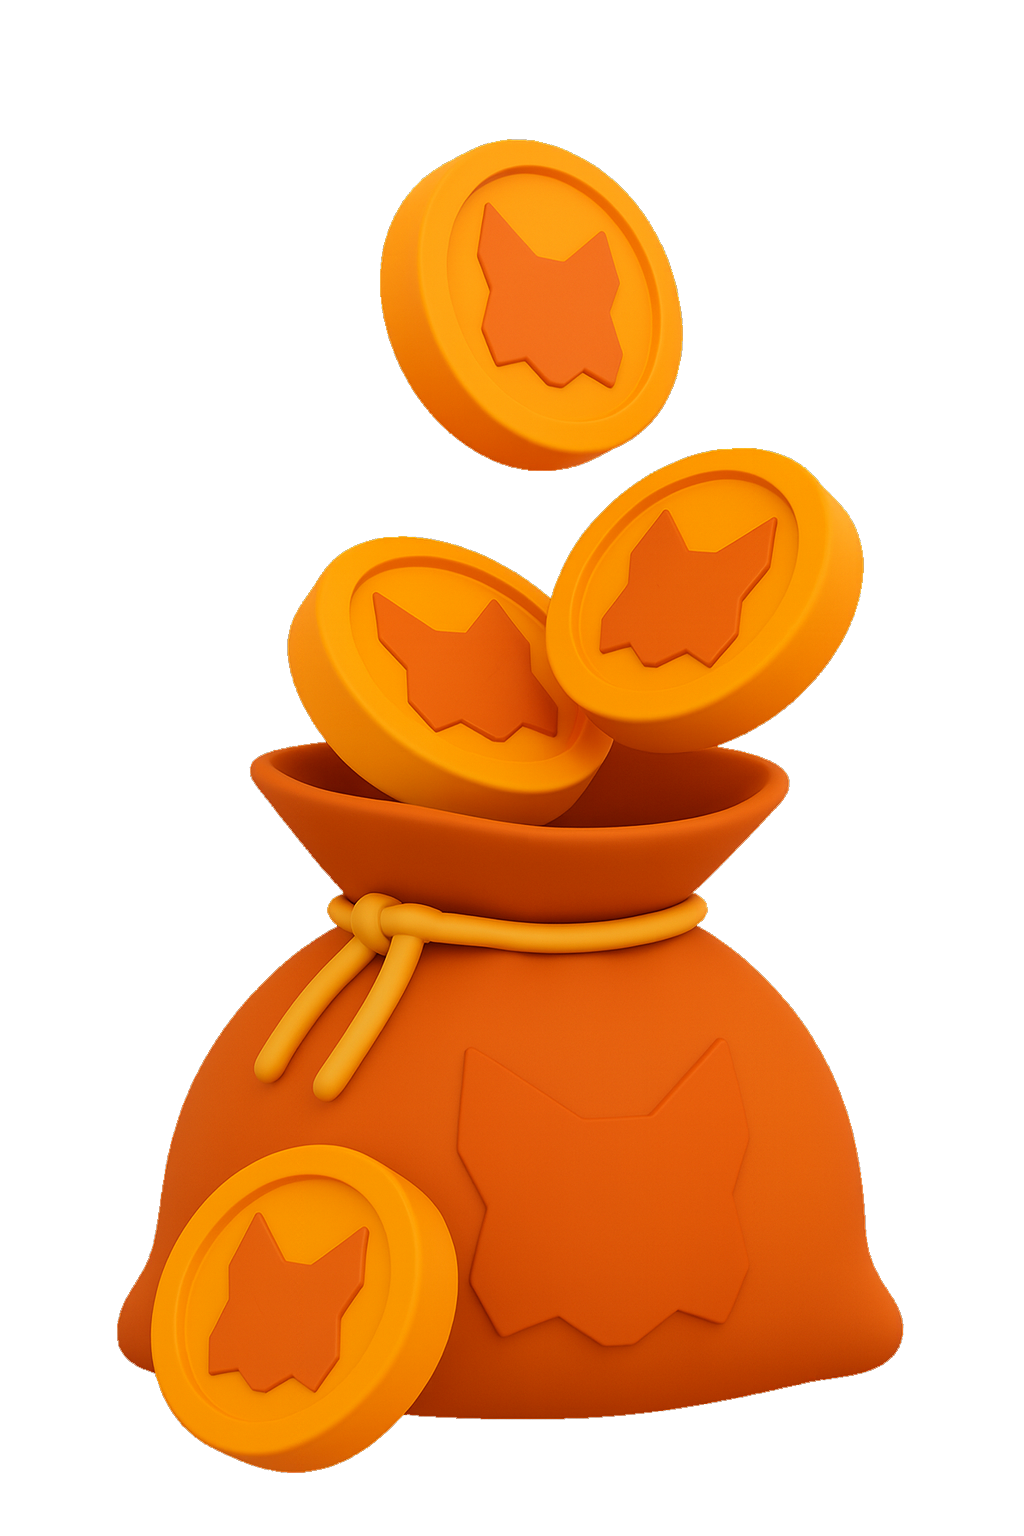
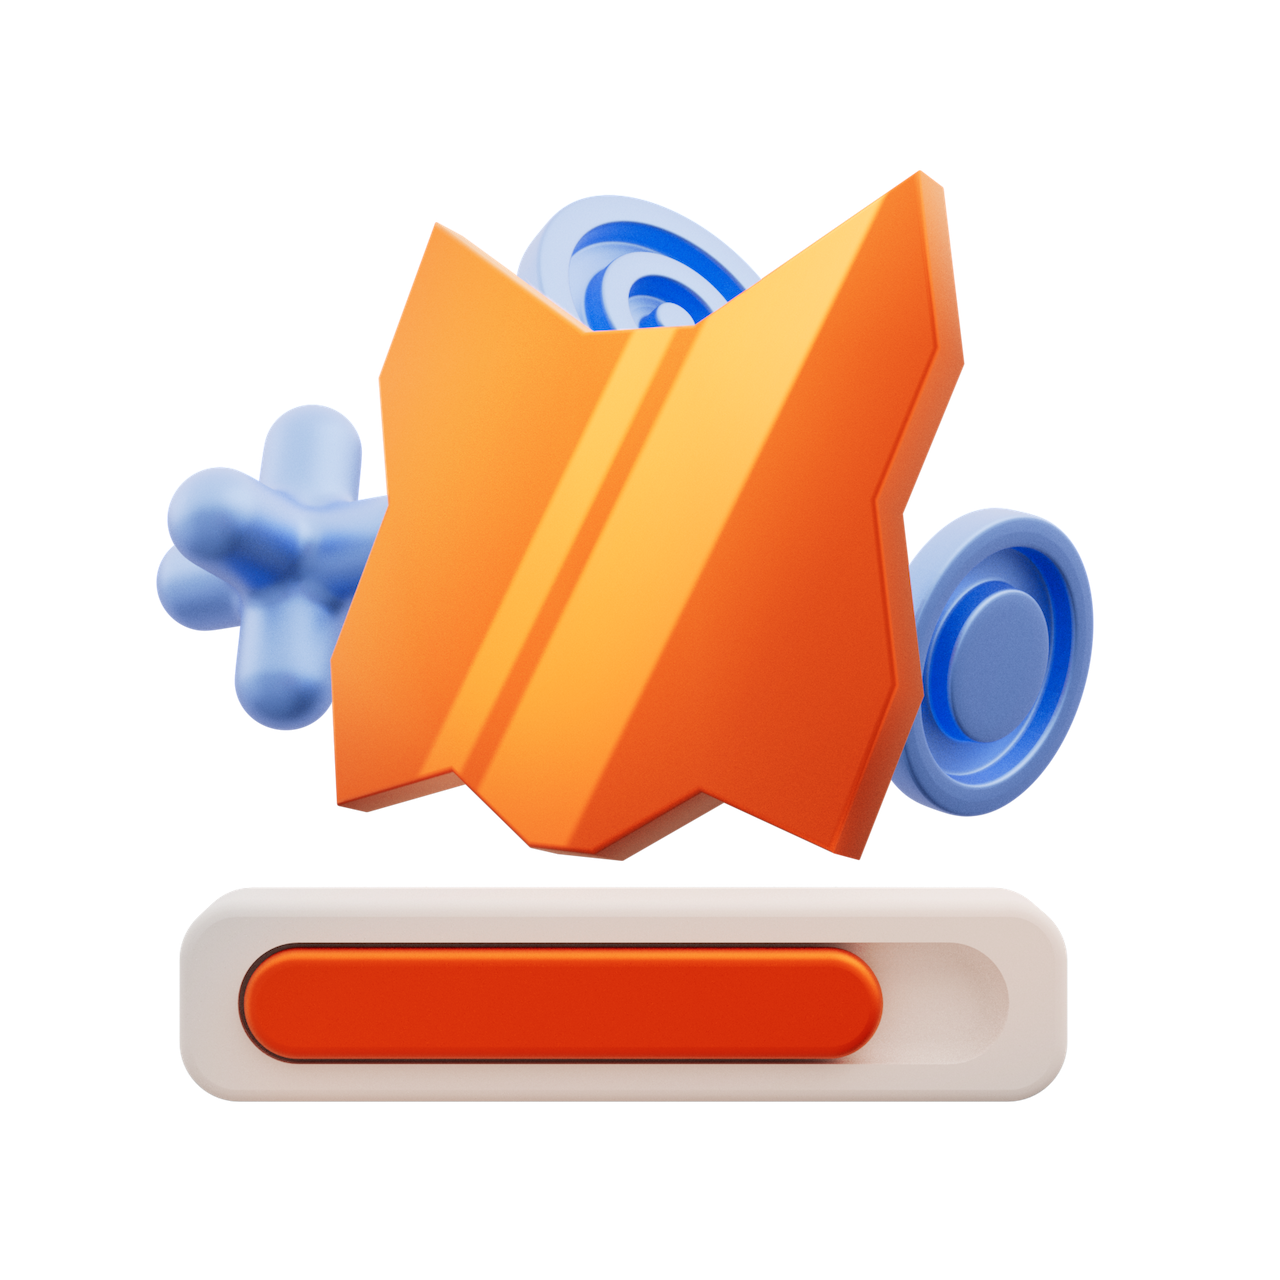
fix: rewards onboarding for small screens (#20204)
<!--
Please submit this PR as a draft initially.
Do not mark it as "Ready for review" until the template has been
completely filled out, and PR status checks have passed at least once.
-->

## **Description**

<!--
Write a short description of the changes included in this pull request,
also include relevant motivation and context. Have in mind the following
questions:
1. What is the reason for the change?
2. What is the improvement/solution?
-->

## **Changelog**

<!--
If this PR is not End-User-Facing and should not show up in the
CHANGELOG, you can choose to either:
1. Write `CHANGELOG entry: null`
2. Label with `no-changelog`

If this PR is End-User-Facing, please write a short User-Facing
description in the past tense like:
`CHANGELOG entry: Added a new tab for users to see their NFTs`
`CHANGELOG entry: Fixed a bug that was causing some NFTs to flicker`

(This helps the Release Engineer do their job more quickly and
accurately)
-->

CHANGELOG entry:

## **Related issues**

Fixes:

## **Manual testing steps**

```gherkin
Feature: my feature name

  Scenario: user [verb for user action]
    Given [describe expected initial app state]

    When user [verb for user action]
    Then [describe expected outcome]
```

## **Screenshots/Recordings**

<!-- If applicable, add screenshots and/or recordings to visualize the
before and after of your change. -->

### **Before**

<!-- [screenshots/recordings] -->

### **After**
[…]

diff --git a/app/components/UI/Rewards/components/Onboarding/OnboardingStep.tsx b/app/components/UI/Rewards/components/Onboarding/OnboardingStep.tsx
@@ -1,5 +1,5 @@
 import React, { ReactNode, useCallback, useRef } from 'react';
-import { View, PanResponder } from 'react-native';
+import { PanResponder } from 'react-native';
 import { useTailwind } from '@metamask/design-system-twrnc-preset';
 import {
   Text,
@@ -21,6 +21,7 @@ import { useNavigation } from '@react-navigation/native';
 import { setOnboardingActiveStep } from '../../../../../reducers/rewards';
 import Routes from '../../../../../constants/navigation/Routes';
 import { OnboardingStep } from '../../../../../reducers/rewards/types';
+import { KeyboardAwareScrollView } from 'react-native-keyboard-aware-scroll-view';
 
 interface OnboardingStepProps {
   // Progress indicator props
@@ -42,7 +43,6 @@ interface OnboardingStepProps {
   // Render props for customizable content
   renderStepImage?: () => ReactNode;
   renderStepInfo: () => ReactNode;
-  stepInfoContainerStyle?: string;
 
   // Gesture control
   disableSwipe?: boolean;
@@ -60,7 +60,6 @@ const OnboardingStepComponent: React.FC<OnboardingStepProps> = ({
   nextButtonAlternative,
   renderStepImage,
   renderStepInfo,
-  stepInfoContainerStyle,
   disableSwipe = false,
 }) => {
   const tw = useTailwind();
@@ -69,7 +68,7 @@ const OnboardingStepComponent: React.FC<OnboardingStepProps> = ({
 
   const onClose = useCallback(() => {
     dispatch(setOnboardingActiveStep(OnboardingStep.INTRO));
-    navigation.navigate(Routes.WALLET_VIEW);
+    navigation.navigate(Routes.WALLET.HOME);
   }, [dispatch, navigation]);
 
   // Create PanResponder for swipe gestures
@@ -98,9 +97,10 @@ const OnboardingStepComponent: React.FC<OnboardingStepProps> = ({
   ).current;
 
   return (
-    <View
-      style={tw.style('flex-1 min-h-full px-4 py-8')}
+    <KeyboardAwareScrollView
+      keyboardShouldPersistTaps="handled"
       testID="onboarding-step-container"
+      contentContainerStyle={tw.style('min-h-full px-4 py-8')}
       {...panResponder.panHandlers}
     >
       <Box twClassName="mt-8 justify-center items-center">
@@ -119,24 +119,19 @@ const OnboardingStepComponent: React.FC<OnboardingStepProps> = ({
           variant="bars"
         />
       </Box>
-
-      <Box twClassName="flex-grow flex-col">
+      <Box twClassName="flex-col flex-1 justify-between items-center">
         {/* Only render image container if renderStepImage is provided */}
-        {renderStepImage && (
-          <Box
-            twClassName="flex-grow-2 relative gap-2"
-            justifyContent={BoxJustifyContent.Center}
-            alignItems={BoxAlignItems.Center}
-            flexDirection={BoxFlexDirection.Column}
-          >
-            {renderStepImage()}
-          </Box>
-        )}
-
         <Box
-          twClassName={`flex-1 flex-col justify-between ${stepInfoContainerStyle}`}
+          justifyContent={BoxJustifyContent.Center}
+          alignItems={BoxAlignItems.Center}
+          flexDirection={BoxFlexDirection.Column}
+          twClassName="flex-1"
         >
-          <Box twClassName="flex-col gap-2">{renderStepInfo()}</Box>
+          {renderStepImage?.()}
+        </Box>
+
+        <Box twClassName="gap-4 w-full flex justify-between">
+          <Box twClassName="flex-col">{renderStepInfo()}</Box>
 
           <Box twClassName="w-full flex-col gap-2">
             <Button
@@ -170,7 +165,7 @@ const OnboardingStepComponent: React.FC<OnboardingStepProps> = ({
           </Box>
         </Box>
       </Box>
-    </View>
+    </KeyboardAwareScrollView>
   );
 };
 

diff --git a/app/components/UI/Rewards/components/Onboarding/OnboardingStep4.tsx b/app/components/UI/Rewards/components/Onboarding/OnboardingStep4.tsx
@@ -46,29 +46,31 @@ const OnboardingStep4: React.FC = () => {
   }, [optin, referralCode]);
 
   const renderStepInfo = () => (
-    <Box twClassName="flex-1" alignItems={BoxAlignItems.Center}>
+    <Box alignItems={BoxAlignItems.Center} twClassName="min-h-[70%]">
       {/* Opt in error message */}
-      <Box alignItems={BoxAlignItems.Center} twClassName="min-h-20">
-        {optinError && (
-          <BannerAlert
-            severity={BannerAlertSeverity.Error}
-            description={optinError}
-          />
-        )}
-      </Box>
+
+      {optinError && (
+        <BannerAlert
+          severity={BannerAlertSeverity.Error}
+          description={optinError}
+        />
+      )}
 
       {/* Placeholder Image */}
-      <Box twClassName="w-30 h-30 my-4">
+      <Box twClassName="my-4">
         <Image
           source={step4Img}
           testID="step-4-image"
-          style={tw.style('w-full h-full')}
+          style={tw.style('w-30 h-30')}
         />
       </Box>
 
       {/* Referral Code Input Section */}
-      <Box twClassName="w-full min-h-32 gap-20 mb-2">
-        <Text variant={TextVariant.HeadingLg} twClassName="text-center">
+      <Box twClassName="w-full gap-4">
+        <Text
+          variant={TextVariant.HeadingLg}
+          twClassName="text-center mb-[20%]"
+        >
           {referralCodeIsValid
             ? strings('rewards.onboarding.step4_title_referral_bonus')
             : strings('rewards.onboarding.step4_title')}
@@ -144,7 +146,7 @@ const OnboardingStep4: React.FC = () => {
     };
 
     return (
-      <Box twClassName="w-full flex-row px-4 mt-4">
+      <Box twClassName="w-full flex-row mt-4">
         <Box
           flexDirection={BoxFlexDirection.Row}
           alignItems={BoxAlignItems.Center}

diff --git a/app/components/UI/Rewards/components/Onboarding/OnboardingStep1.tsx b/app/components/UI/Rewards/components/Onboarding/OnboardingStep1.tsx
@@ -5,7 +5,7 @@ import { useDispatch } from 'react-redux';
 import { useTailwind } from '@metamask/design-system-twrnc-preset';
 import { OnboardingStep } from '../../../../../reducers/rewards/types';
 import Routes from '../../../../../constants/navigation/Routes';
-import { Text, TextVariant } from '@metamask/design-system-react-native';
+import { Box, Text, TextVariant } from '@metamask/design-system-react-native';
 import step1Img from '../../../../../images/rewards/rewards-onboarding-step1.png';
 import Step1BgImg from '../../../../../images/rewards/rewards-onboarding-step1-bg.svg';
 import { setOnboardingActiveStep } from '../../../../../actions/rewards';
@@ -39,7 +39,7 @@ const OnboardingStep1: React.FC = () => {
 
       <Image
         source={step1Img}
-        style={tw.style('flex-1 max-h-[75%] z-10')}
+        style={tw.style('h-80 z-10')}
         testID="step-1-image"
         resizeMode="contain"
       />
@@ -47,7 +47,7 @@ const OnboardingStep1: React.FC = () => {
   );
 
   const renderStepInfo = () => (
-    <>
+    <Box twClassName="flex-col gap-2 min-h-30">
       <Text variant={TextVariant.HeadingLg} twClassName="text-center">
         {strings('rewards.onboarding.step1_title')}
       </Text>
@@ -57,7 +57,7 @@ const OnboardingStep1: React.FC = () => {
       >
         {strings('rewards.onboarding.step1_description')}
       </Text>
-    </>
+    </Box>
   );
 
   return (

diff --git a/app/components/UI/Rewards/components/Onboarding/OnboardingStep2.tsx b/app/components/UI/Rewards/components/Onboarding/OnboardingStep2.tsx
@@ -4,7 +4,7 @@ import { useNavigation } from '@react-navigation/native';
 import { useDispatch } from 'react-redux';
 import { useTailwind } from '@metamask/design-system-twrnc-preset';
 import Routes from '../../../../../constants/navigation/Routes';
-import { Text, TextVariant } from '@metamask/design-system-react-native';
+import { Box, Text, TextVariant } from '@metamask/design-system-react-native';
 import step2Img from '../../../../../images/rewards/rewards-onboarding-step2.png';
 import Step2BgImg from '../../../../../images/rewards/rewards-onboarding-step2-bg.svg';
 import { setOnboardingActiveStep } from '../../../../../actions/rewards';
@@ -39,7 +39,7 @@ const OnboardingStep2: React.FC = () => {
 
       <Image
         source={step2Img}
-        style={tw.style('flex-1 max-h-[75%] z-10')}
+        style={tw.style('h-80 z-10')}
         testID="step-2-image"
         resizeMode="contain"
       />
@@ -47,7 +47,7 @@ const OnboardingStep2: React.FC = () => {
   );
 
   const renderStepInfo = () => (
-    <>
+    <Box twClassName="flex-col gap-2 min-h-30">
       <Text variant={TextVariant.HeadingLg} twClassName="text-center">
         {strings('rewards.onboarding.step2_title')}
       </Text>
@@ -58,7 +58,7 @@ const OnboardingStep2: React.FC = () => {
       >
         {strings('rewards.onboarding.step2_description')}
       </Text>
-    </>
+    </Box>
   );
 
   return (

diff --git a/app/components/UI/Rewards/components/Onboarding/OnboardingStep3.tsx b/app/components/UI/Rewards/components/Onboarding/OnboardingStep3.tsx
@@ -5,7 +5,7 @@ import { useDispatch } from 'react-redux';
 import { useTailwind } from '@metamask/design-system-twrnc-preset';
 import { OnboardingStep } from '../../../../../reducers/rewards/types';
 import Routes from '../../../../../constants/navigation/Routes';
-import { Text, TextVariant } from '@metamask/design-system-react-native';
+import { Box, Text, TextVariant } from '@metamask/design-system-react-native';
 import step3Img from '../../../../../images/rewards/rewards-onboarding-step3.png';
 import Step3BgImg from '../../../../../images/rewards/rewards-onboarding-step3-bg.svg';
 import { setOnboardingActiveStep } from '../../../../../actions/rewards';
@@ -39,7 +39,7 @@ const OnboardingStep3: React.FC = () => {
 
       <Image
         source={step3Img}
-        style={tw.style('flex-1 max-h-[75%] z-10')}
+        style={tw.style('h-80 z-10')}
         testID="step-3-image"
         resizeMode="contain"
       />
@@ -47,7 +47,7 @@ const OnboardingStep3: React.FC = () => {
   );
 
   const renderStepInfo = () => (
-    <>
+    <Box twClassName="flex-col gap-2 min-h-30">
       <Text variant={TextVariant.HeadingLg} twClassName="text-center">
         {strings('rewards.onboarding.step3_title')}
       </Text>
@@ -57,7 +57,7 @@ const OnboardingStep3: React.FC = () => {
       >
         {strings('rewards.onboarding.step3_description')}
       </Text>
-    </>
+    </Box>
   );
 
   return (

diff --git a/app/components/UI/Rewards/components/Onboarding/OnboardingIntroStep.tsx b/app/components/UI/Rewards/components/Onboarding/OnboardingIntroStep.tsx
@@ -229,14 +229,14 @@ const OnboardingIntroStep: React.FC = () => {
   );
 
   return (
-    <Box twClassName="flex-grow min-h-full" testID="onboarding-intro-container">
+    <Box twClassName="min-h-full" testID="onboarding-intro-container">
       <ImageBackground
         source={introBg}
-        style={tw.style('flex-1 px-4 py-8')}
+        style={tw.style('flex-grow px-4 py-8')}
         resizeMode="cover"
       >
         {/* Spacer */}
-        <Box twClassName="flex-basis-[75px]" />
+        <Box twClassName="flex-basis-[5%]" />
 
         {/* Title Section */}
         {renderTitle()}

diff --git a/app/components/UI/Rewards/components/Onboarding/__tests__/OnboardingStep.test.tsx b/app/components/UI/Rewards/components/Onboarding/__tests__/OnboardingStep.test.tsx
@@ -303,7 +303,7 @@ describe('OnboardingStep', () => {
       fireEvent.press(closeButton);
 
       expect(mockDispatch).toHaveBeenCalledWith(expect.any(Object));
-      expect(mockNavigate).toHaveBeenCalledWith('WalletView');
+      expect(mockNavigate).toHaveBeenCalledWith('WalletTabHome');
     });
 
     it('should disable next button when onNextDisabled is true', () => {